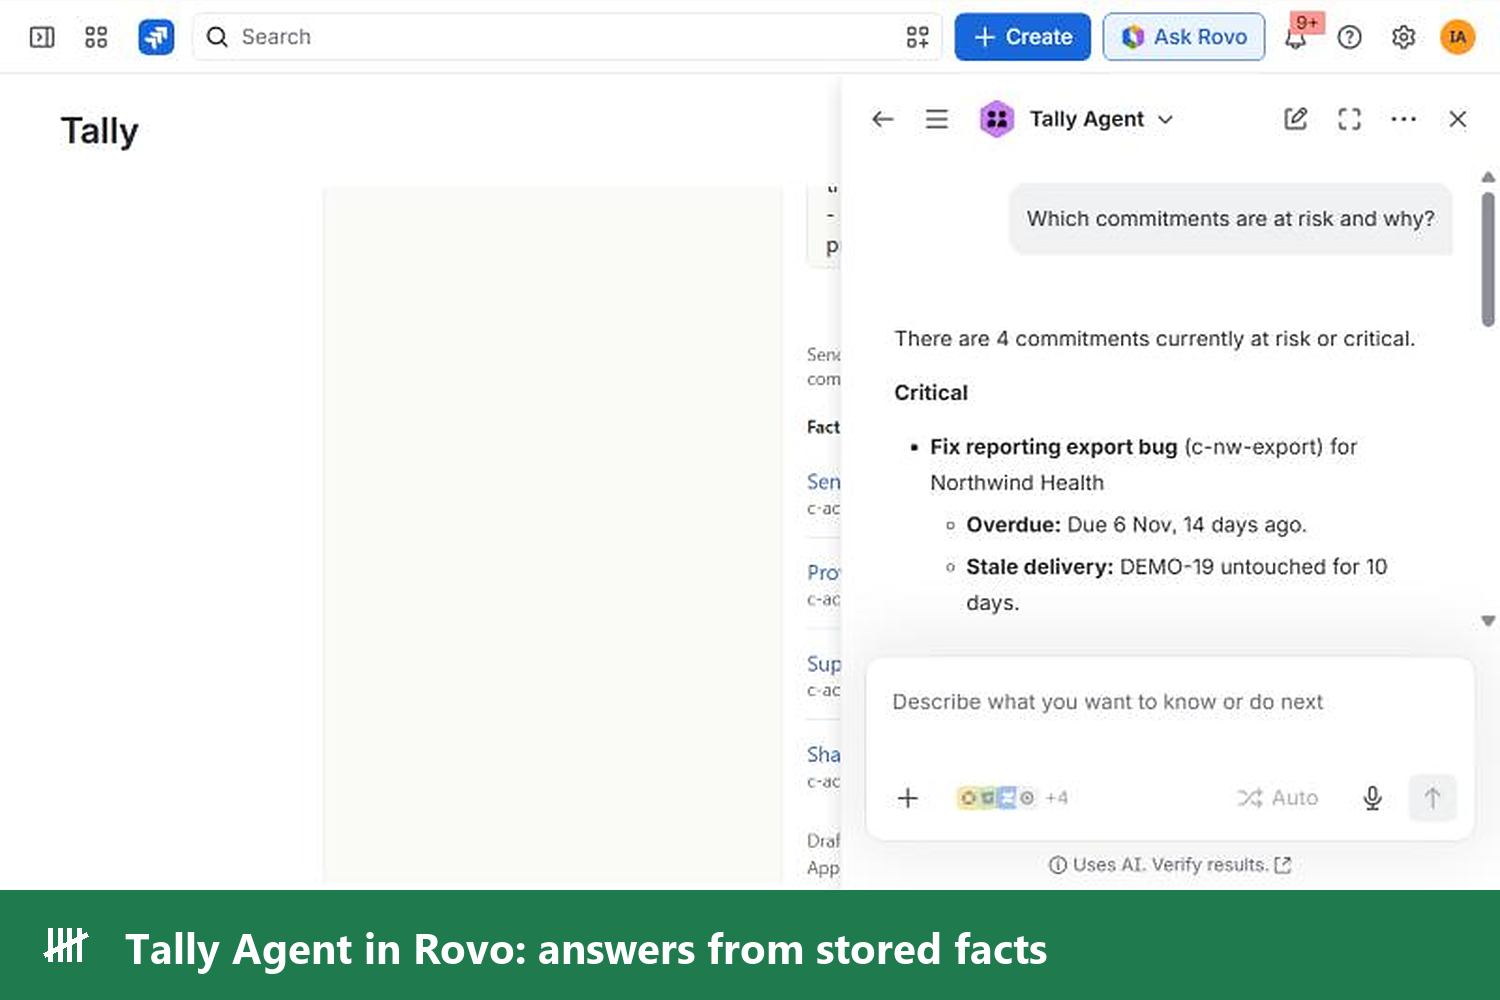
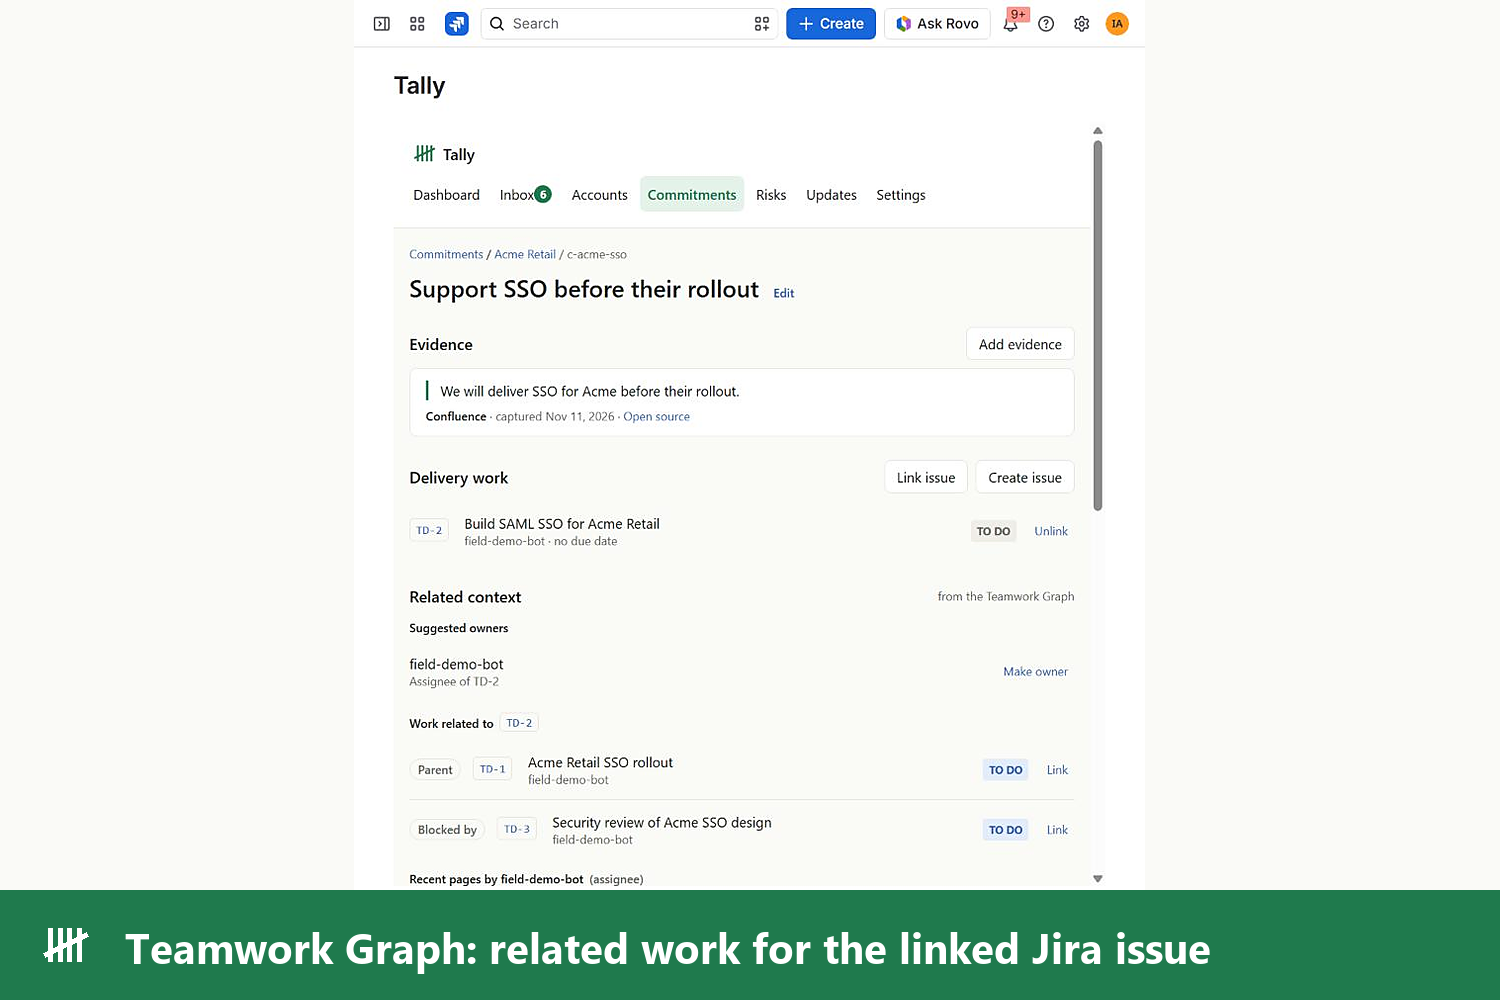
Retry an all-empty Teamwork Graph answer once; add Check again; refresh video graph scene

diff --git a/src/graph/client.ts b/src/graph/client.ts
@@ -58,7 +58,11 @@ type GqlBody = { data?: Record<string, Conn> | null; errors?: Array<{ message?: 
 const s = (v: unknown): string | null => (typeof v === 'string' && v.length > 0 ? v : null);
 
 export class GraphClient {
-  constructor(private readonly http: GraphHttp) {}
+  constructor(
+    private readonly http: GraphHttp,
+    /** Pause before re-asking when every relation came back empty (0 in tests). */
+    private readonly emptyRetryMs = 1200,
+  ) {}
 
   /** POST one query; partial data with field errors still counts, a null data block does not. */
   private async run(name: string, query: string, variables: Record<string, unknown>): Promise<Result<Record<string, Conn>>> {
@@ -91,10 +95,23 @@ export class GraphClient {
     return body.data?.echo === 'ok' ? ok(true) : fail('upstream', `Teamwork Graph: ${body.errors?.[0]?.message?.slice(0, 160) ?? 'no answer'}`);
   }
 
-  /** Parent, child, blocking and linked work for one Jira issue, in one round trip. */
+  /**
+   * Parent, child, blocking and linked work for one Jira issue, in one round trip.
+   * The graph sometimes answers with every relation empty and then, moments later, with the
+   * real edges (seen live on 20 Nov 2026 for an issue whose links had not changed), so an
+   * all-empty answer is asked once more after a short pause before it is trusted.
+   */
   async relatedWork(issueAriValue: string): Promise<Result<RelatedWork[]>> {
+    const first = await this.relatedOnce(issueAriValue);
+    if (!first.ok || first.data.length > 0) return first;
+    await new Promise((r) => setTimeout(r, this.emptyRetryMs));
+    return this.relatedOnce(issueAriValue);
+  }
+
+  private async relatedOnce(issueAriValue: string): Promise<Result<RelatedWork[]>> {
     const res = await this.run('related work', RELATED_WORK_QUERY, { id: issueAriValue });
-    if (!res.ok) return res;    const out: RelatedWork[] = [];
+    if (!res.ok) return res;
+    const out: RelatedWork[] = [];
     for (const kind of RELATION_KINDS) {
       for (const edge of res.data[kind.toLowerCase()]?.edges ?? []) {
         const n = edge?.node;

diff --git a/tests/graph.test.ts b/tests/graph.test.ts
@@ -43,8 +43,25 @@ describe('GraphClient', () => {
   });
 
   it('empty graph is ok with an empty list', async () => {
-    const r = await new GraphClient(async () => resp(200, related({}))).relatedWork('x');
+    let calls = 0;
+    const r = await new GraphClient(async () => { calls++; return resp(200, related({})); }, 0).relatedWork('x');
     expect(r.ok && r.data).toEqual([]);
+    expect(calls).toBe(2); // an all-empty answer is asked once more
+  });
+
+  it('an all-empty answer is retried once and the second answer is used', async () => {
+    let calls = 0;
+    const http: GraphHttp = async () => (++calls === 1 ? resp(200, related({})) : resp(200, related({ parent: [wi('TD-1')], blocked_by: [wi('TD-3')] })));
+    const r = await new GraphClient(http, 0).relatedWork(issueAri(CLOUD, '66401'));
+    expect(r.ok && r.data.map((x) => `${x.kind}:${x.key}`)).toEqual(['PARENT:TD-1', 'BLOCKED_BY:TD-3']);
+    expect(calls).toBe(2);
+  });
+
+  it('a non-empty first answer is not asked again', async () => {
+    let calls = 0;
+    const r = await new GraphClient(async () => { calls++; return resp(200, related({ child: [wi('TD-2')] })); }, 0).relatedWork('x');
+    expect(r.ok && r.data.length).toBe(1);
+    expect(calls).toBe(1);
   });
 
   it('error paths: GraphQL errors with no data, HTTP failures, thrown calls', async () => {
@@ -82,7 +99,7 @@ function fakeGraph(byIssue: Record<string, unknown>, byUser: Record<string, unkn
     calls.push(String(v.userId));
     return resp(200, { data: { atlassianUserContent: conn(byUser[id] ?? []) } });
   };
-  return { graph: new GraphClient(http), calls };
+  return { graph: new GraphClient(http, 0), calls };
 }
 const noJira = new JiraClient(async () => { throw new Error('Jira should not be called'); });
 

diff --git a/static/ui/src/screens/CommitmentDetail.tsx b/static/ui/src/screens/CommitmentDetail.tsx
@@ -769,7 +769,7 @@ function GraphPanel({ c, me, editable, linkKeys, onAttachPage, onLink, onOwner }
               {i.error ? (
                 <p className="muted small">Graph unavailable for {i.key}: {i.error}</p>
               ) : i.related.length === 0 ? (
-                <p className="muted small">The graph has no parent, child, blocking or linked work for {i.key}.</p>
+                <p className="muted small">The graph has no parent, child, blocking or linked work for {i.key}. <button className="btn btn-quiet" onClick={refetch}>Check again</button></p>
               ) : (
                 <ul className="list">
                   {i.related.map((r) => (

diff --git a/tools/demo-video/build.py b/tools/demo-video/build.py
@@ -120,6 +120,7 @@ print(f'video: {final} ({total:.1f} s, {len(segments)} beats)')
 gallery = [('01-dashboard.jpg', 'Dashboard: what needs attention and why'),
            ('04-review.jpg', 'Discovery inbox: a person confirms every promise'),
            ('09-why.jpg', 'Rule-based risk flags, each with its reason'),
+           ('07-context.jpg', 'Teamwork Graph: related work for the linked Jira issue'),
            ('15-agent-answer.jpg', 'Tally Agent in Rovo: answers from stored facts'),
            ('12-facts.jpg', 'Customer updates from stored facts, approved by a person'),
            ('19-settings.jpg', 'Runs on Atlassian: Jira, Confluence, Teamwork Graph')]

diff --git a/PROGRESS.md b/PROGRESS.md
@@ -467,11 +467,13 @@ Deadline 22 Dec 2026, 9:00pm Lagos. Self-imposed submission: 20 Dec. Marketplace
   (beats.json = script, tts.ps1 = narration, build.py = frames + ffmpeg). The Rovo agent beats are
   real: it answered with IDs and rule reasons, and the CREATE action showed Rovo's "Please review"
   card before adding the inbox candidate.
-- Issue found while recording: the Related context panel showed no parent/blocker for TD-2,
-  although the same curated query run in the browser as the user returns parent TD-1 and
-  blocked-by TD-3 (it worked in Tally on 15 Nov). Not diagnosed: the Forge CLI login expired
-  ("Your API token is no longer valid"), so no debug deploy. The video narrates the panel
-  without claiming the parent/blocker. Next: forge login, add a temporary log, compare.
+- Issue found while recording, then fixed: the Related context panel showed no parent/blocker
+  for TD-2 although the graph had them. After forge login, a temporary log showed the app's call
+  now returning parent TD-1 and blocked-by TD-3, with no code change: the graph intermittently
+  answers with every relation empty. Fix: GraphClient.relatedWork asks once more (after 1.2 s)
+  when every relation is empty, and the empty message has a "Check again" button. 175 tests (2 new).
+  Deployed to development and verified live (Parent TD-1, Blocked by TD-3, with Link). The video's
+  graph scene and gallery-4 now use that capture. Production deploy waits for Ife's OK.
 - Open: upload the video (Public), add the gallery to Devpost, submit.
 
 ## Deviations from the blueprint (decided while building)
